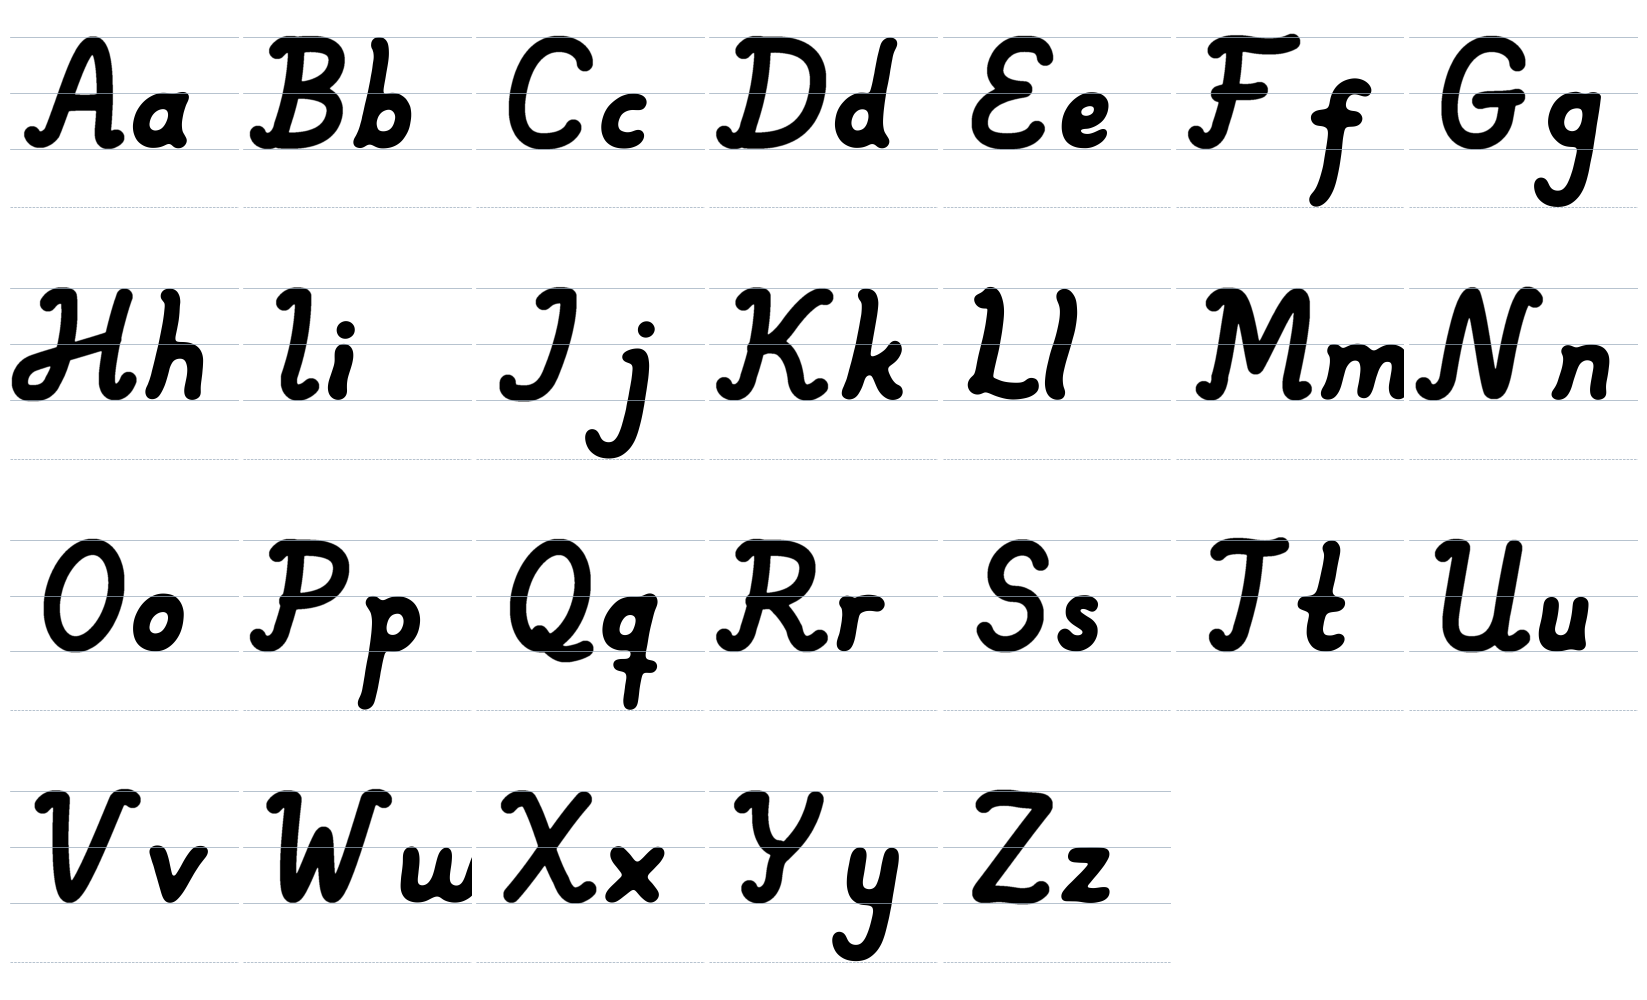
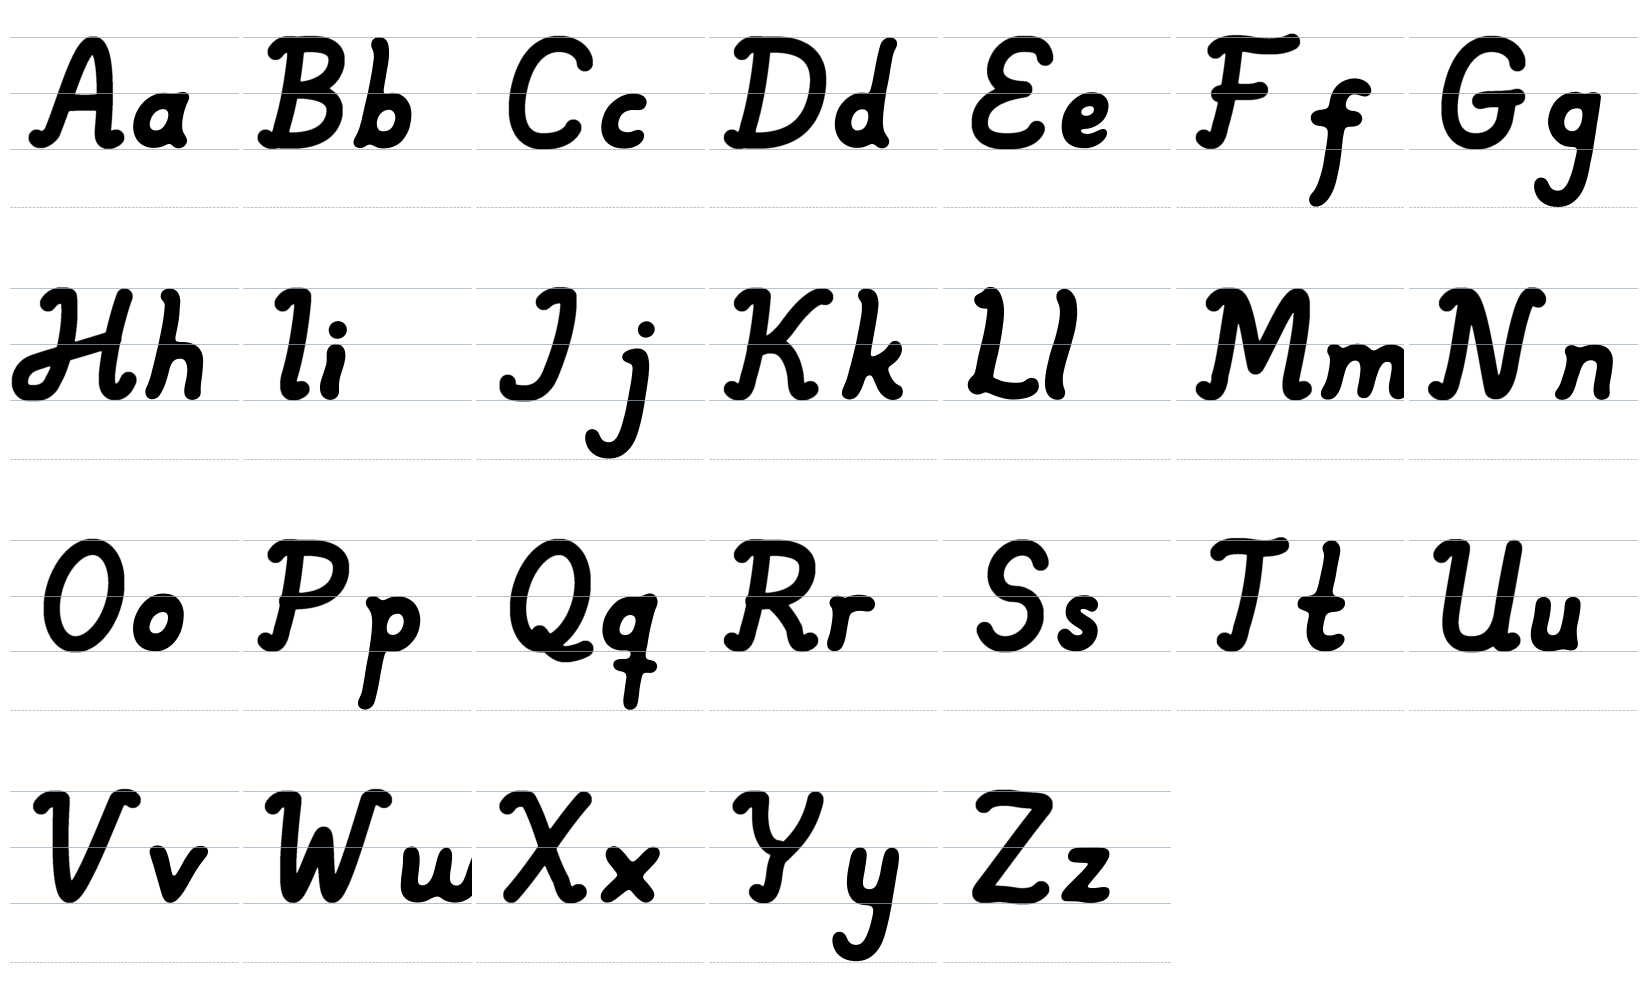
Samma skrivstilskänsla för alla versaler: H-insväng, böjda staplar, korta mjuka fötter; nytt N som M
Claude-Session: https://claude.ai/code/session_01G3Fa1qrTuHzte3kfXkaDtX

diff --git a/bokstaver/versaler.py b/bokstaver/versaler.py
@@ -56,15 +56,13 @@ def stam(x, bage=0.03):
 
 # --- Svängar (i samma anda som ditt L och gemenernas fötter) -------------------
 def entre(x, y=HI):
-    """Mjuk insväng uppe till vänster som leder in i en stapel."""
-    return kedja((x - 0.65, y - 0.22), ((x - 0.5, y + 0.06), (x - 0.22, y + 0.07), (x, y)))
+    """Insväng som på skrivstils-H: kommer in från vänster och går över toppen."""
+    return kedja((x - 0.7, y - 0.25), ((x - 0.57, y + 0.06), (x - 0.25, y + 0.06), (x, y)))
 
 
 def flick(x, y0=0.8, lut=0.0):
-    """Fot som mjukt svänger ut åt höger, som på gemenerna (h, n, a)."""
-    x1 = x + lut * (y0 - LO - 0.1)
-    return kedja((x, y0), ((x1, LO + 0.15), (x1 + 0.22, LO - 0.05), (x1 + 0.45, LO - 0.03)),
-                 ((x1 + 0.62, LO - 0.01), (x1 + 0.75, LO + 0.08), (x1 + 0.85, LO + 0.2)))
+    """Samma korta, mjuka fot åt höger som på A, H och M."""
+    return svans(x, y0, lut)
 
 
 def svans(x, y0=0.8, lut=0.0):
@@ -85,23 +83,21 @@ def kort_entre(x, y=HI):
     return kedja((x - 0.42, y - 0.12), ((x - 0.32, y + 0.05), (x - 0.13, y + 0.05), (x, y)))
 
 
-def snirkel(x, y0=0.85, lut=0.0):
-    """Fot som mjukt svänger ut åt vänster, som nedre svängen på ditt L."""
-    x1 = x + lut * (y0 - LO - 0.1)
-    return kedja((x, y0), ((x1, LO + 0.12), (x1 - 0.25, LO - 0.06), (x1 - 0.48, LO - 0.02)),
-                 ((x1 - 0.66, LO + 0.01), (x1 - 0.78, LO + 0.1), (x1 - 0.82, LO + 0.24)))
+def snirkel(x, y0=0.8, lut=0.0):
+    """Samma korta, mjuka fot åt vänster som på H och M."""
+    return kort_snirkel(x, y0)
 
 
-def stapel(x, topp=True, fot="snirkel", bage=0.12):
-    """Stapel med lätt sväng, valfri insväng upptill och fot (snirkel/flick/None)."""
-    y0 = 0.85 if fot else LO
-    ut = [linje((x, HI), (x, y0), bage)]
+def stapel(x, topp=True, fot="snirkel", bage=0.1):
+    """Stapel med lätt böj (som H:s vänstra), insväng upptill och kort fot."""
+    y0 = 0.8 if fot else LO
+    ut = [kedja((x, HI), ((x + bage, 2.7), (x + bage, 1.5), (x, y0)))]
     if topp:
         ut.append(entre(x))
     if fot == "snirkel":
-        ut.append(snirkel(x, y0))
+        ut.append(kort_snirkel(x, y0))
     elif fot == "flick":
-        ut.append(flick(x, y0))
+        ut.append(svans(x, y0))
     return ut
 
 
@@ -118,7 +114,7 @@ def stam(x, bage=0.03):
 
 # --- Versalerna (raka, före lutning) -----------------------------------------
 def A():
-    ben = kedja((-0.2, LO + 0.22), ((-0.05, LO - 0.06), (0.3, LO - 0.05), (0.5, 0.55)),
+    ben = kedja((-0.02, LO + 0.1), ((0.05, LO - 0.04), (0.3, LO - 0.04), (0.5, 0.55)),
                 ((0.78, 1.7), (0.95, HI + 0.02), (1.42, HI + 0.02)),
                 ((1.9, HI + 0.02), (2.2, 1.9), (2.3, 0.8)))
     # tvärstrecket slutar precis i benen (inga knölar utanför)
@@ -217,12 +213,16 @@ def M():
     stam = kedja((v, HI), ((0.52, 2.7), (0.62, 1.5), (0.52, 0.8)))
     return [over, stam, kort_snirkel(0.55, 0.8), svans(h, 0.8)]
 def N():
-    return [snirkel(0.35, 0.85),
-            kedja((0.35, 0.85), ((0.33, 2.3), (0.42, HI + 0.08), (0.72, HI + 0.04)),
-                  ((1.15, 2.9), (1.7, 0.9), (2.0, LO + 0.05)),
-                  ((2.2, LO - 0.06), (2.32, 0.4), (2.32, 1.2)),
-                  ((2.32, 2.4), (2.4, HI + 0.1), (2.7, HI + 0.06)),
-                  ((2.82, HI + 0.04), (2.92, HI - 0.02), (2.98, HI - 0.12)))]
+    """N som M: insvängen går över toppen och ner i diagonalen."""
+    v, h = 0.55, 2.5
+    over = kedja((-0.15, HI - 0.25), ((-0.02, HI + 0.06), (0.3, HI + 0.06), (v, HI)),
+                 ((0.95, HI - 0.02), (1.7, 1.2), (2.05, LO + 0.05)),
+                 ((2.25, LO - 0.06), (h, 0.4), (h, 1.2)),
+                 ((h, 2.4), (h + 0.05, HI + 0.05), (h + 0.35, HI + 0.04)),
+                 ((h + 0.48, HI + 0.03), (h + 0.56, HI - 0.03), (h + 0.6, HI - 0.12)))
+    stam = kedja((v, HI), ((0.52, 2.7), (0.62, 1.5), (0.52, 0.8)))
+    return [over, stam, kort_snirkel(0.52, 0.8)]
+
 
 def O():
     return [ellips(1.4, 2.0, 1.12, HI - 2.0 + OV)]
